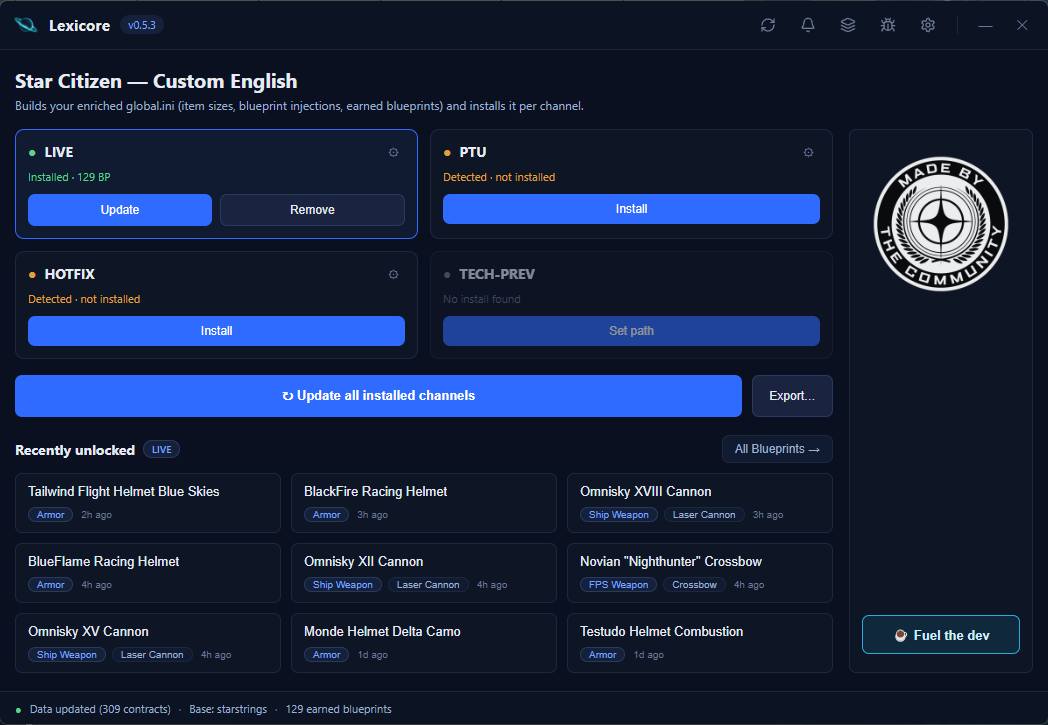
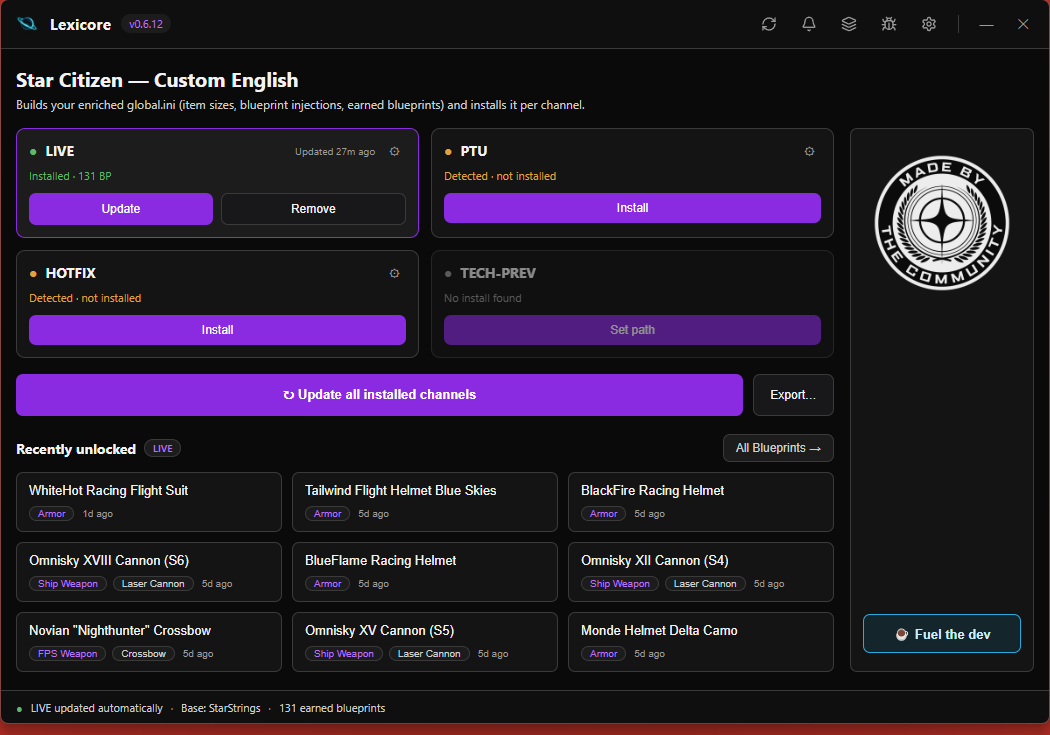
docs(readme): refresh app screenshot, add setup + tutorial shots, expand feature list
The app screenshot was still from v0.5.3 — pre-tutorial, pre-4-step-setup,
pre-ship-weapon-classification. Updated to the current v0.6.13 build and
added two new shots that highlight onboarding (4-step setup wizard with
theme picker cards + interactive coachmark tutorial) since those land
right after install and shape first impressions.

Feature list bumped from 6 to 10 bullets to cover the additions since
v0.5.3 — ship-weapon classification, the [BP]/[BP K/N]/[BP DONE]
marker variants, guided setup + tour, the 5 themes, in-app feedback
wizard, and the tray-preserving updater behaviour. Kept the existing
mission/blueprint shots — the red annotation overlays explain what
Lexicore contributes in-game better than a fresh screenshot could.

diff --git a/README.md b/README.md
@@ -39,6 +39,10 @@
 
 <sub>The Lexicore app — manage every channel, see recently unlocked blueprints. · Die Lexicore-App — alle Kanäle verwalten, zuletzt freigeschaltete Baupläne sehen.</sub>
 
+<img src="assets/screenshot-setup.png" alt="Guided 4-step setup wizard with theme picker" width="49%"> <img src="assets/screenshot-tutorial.png" alt="Interactive coachmark tutorial walking through every button" width="49%">
+
+<sub>Guided 4-step setup + interactive tour through every button — so nobody gets lost. · Geführtes 4-Schritte-Setup + interaktive Tour durch jede Schaltfläche — damit niemand verloren ist.</sub>
+
 <img src="assets/screenshot-mission.jpg" alt="In-game blueprint mission with injected price, reputation and drop chance" width="49%"> <img src="assets/screenshot-blueprints.jpg" alt="In-game blueprint list with owned markers" width="49%">
 
 <sub>In-game: blueprint missions show price, reputation &amp; drop chance — plus which blueprints you already own. · Im Spiel: Bauplan-Missionen zeigen Preis, Reputation &amp; Drop-Chance — und welche Baupläne du schon besitzt.</sub>
@@ -53,12 +57,16 @@ juggling.
 
 ### What Lexicore does
 
-- **Readable item sizes** instead of cryptic codes.
-- **Blueprint info** right inside the mission: price, reputation, drop chance and possible blueprints.
-- **Unlocked blueprints** are marked automatically — Lexicore reads along with your `Game.log`.
+- **Readable item sizes** instead of cryptic codes (`JS-300 (S1 A Military)` instead of `JS-300`).
+- **Ship weapons** get their damage type and class in the name (`Ballistic Cannon`, `Laser Repeater`, `Distortion Scattergun`, …).
+- **Blueprint info** right inside the mission: price, reputation, drop chance and the full list of possible blueprints.
+- **Unlocked blueprints** are marked automatically — Lexicore reads along with your `Game.log` and adds `[BP]` / `[BP K/N]` / `[BP DONE]` markers to mission titles.
 - **Background watcher:** newly unlocked blueprints land in the `global.ini` automatically; they're in the game on your next launch.
-- **All channels:** LIVE, PTU, HOTFIX and TECH-PREV managed separately.
-- **Auto-update:** Lexicore updates itself.
+- **All channels:** LIVE, PTU, HOTFIX and TECH-PREV managed separately, each with its own injection settings.
+- **Guided setup & interactive tour:** 4-step wizard for first-time configuration plus a coachmark tour through every button — replayable anytime.
+- **5 themes:** UEE Dark, Light, Crimson, Ignis, Umbra — picked with a live preview card.
+- **Built-in feedback:** one-click bug report or feature request, with system info and the matching GitHub issue template pre-filled.
+- **Auto-update:** Lexicore updates itself and stays in the tray during updates if it was already tray-resident.
 
 ### Installation
 
@@ -98,12 +106,16 @@ manuelles Dateigeschiebe.
 
 ### Was Lexicore kann
 
-- **Lesbare Item-Größen** statt kryptischer Kürzel.
-- **Blueprint-Infos** direkt in der Mission: Preis, Reputation, Drop-Chance und mögliche Baupläne.
-- **Freigespielte Baupläne** werden automatisch markiert — Lexicore liest dein `Game.log` mit.
+- **Lesbare Item-Größen** statt kryptischer Kürzel (`JS-300 (S1 A Military)` statt `JS-300`).
+- **Schiffswaffen** bekommen Schadenstyp und Klasse in den Namen (`Ballistic Cannon`, `Laser Repeater`, `Distortion Scattergun`, …).
+- **Blueprint-Infos** direkt in der Mission: Preis, Reputation, Drop-Chance und die komplette Liste möglicher Baupläne.
+- **Freigespielte Baupläne** werden automatisch markiert — Lexicore liest dein `Game.log` mit und ergänzt `[BP]` / `[BP K/N]` / `[BP DONE]` Marker in den Missions-Titeln.
 - **Hintergrund-Watcher:** Neu freigeschaltete Blueprints landen automatisch in der `global.ini`, beim nächsten Spielstart sind sie drin.
-- **Alle Kanäle:** LIVE, PTU, HOTFIX und TECH-PREV getrennt verwaltbar.
-- **Auto-Update:** Lexicore aktualisiert sich selbst.
+- **Alle Kanäle:** LIVE, PTU, HOTFIX und TECH-PREV getrennt verwaltbar, jeder mit eigenen Injektions-Einstellungen.
+- **Geführtes Setup & interaktive Tour:** 4-Schritte-Wizard für die Erst-Konfiguration plus Coachmark-Tour durch jede Schaltfläche — jederzeit wiederholbar.
+- **5 Themes:** UEE Dark, Light, Crimson, Ignis, Umbra — mit Live-Vorschau-Karten ausgewählt.
+- **Eingebautes Feedback:** Bug melden oder Feature vorschlagen mit einem Klick, System-Infos und das passende GitHub-Issue-Template werden vorausgefüllt.
+- **Auto-Update:** Lexicore aktualisiert sich selbst und bleibt während des Updates im Tray, falls es vorher dort lief.
 
 ### Installation
 